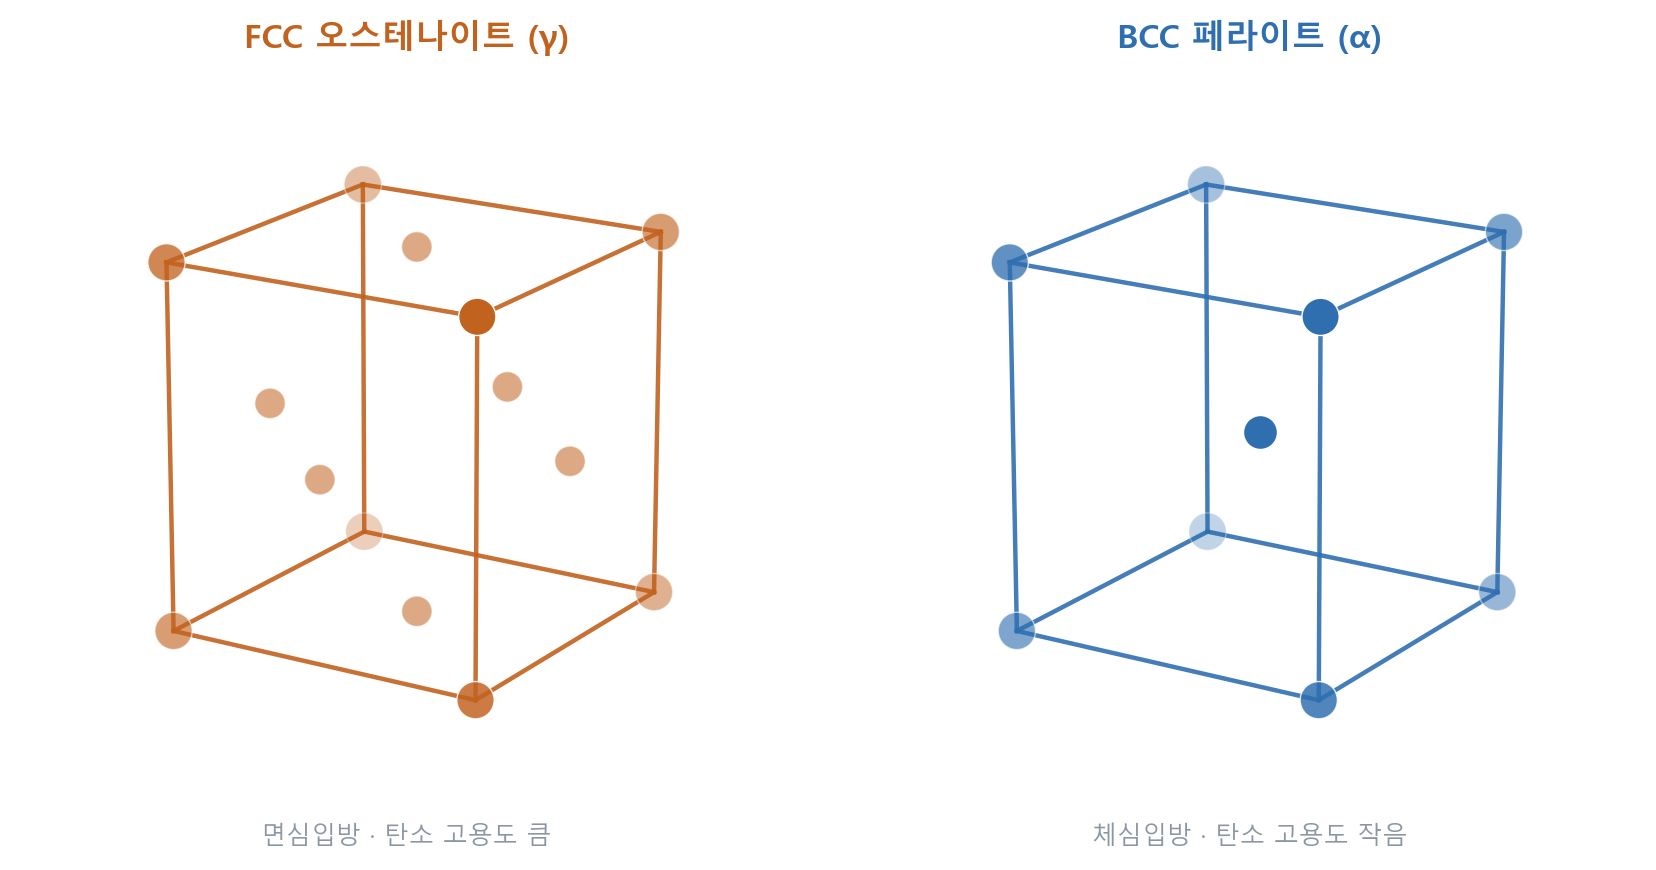
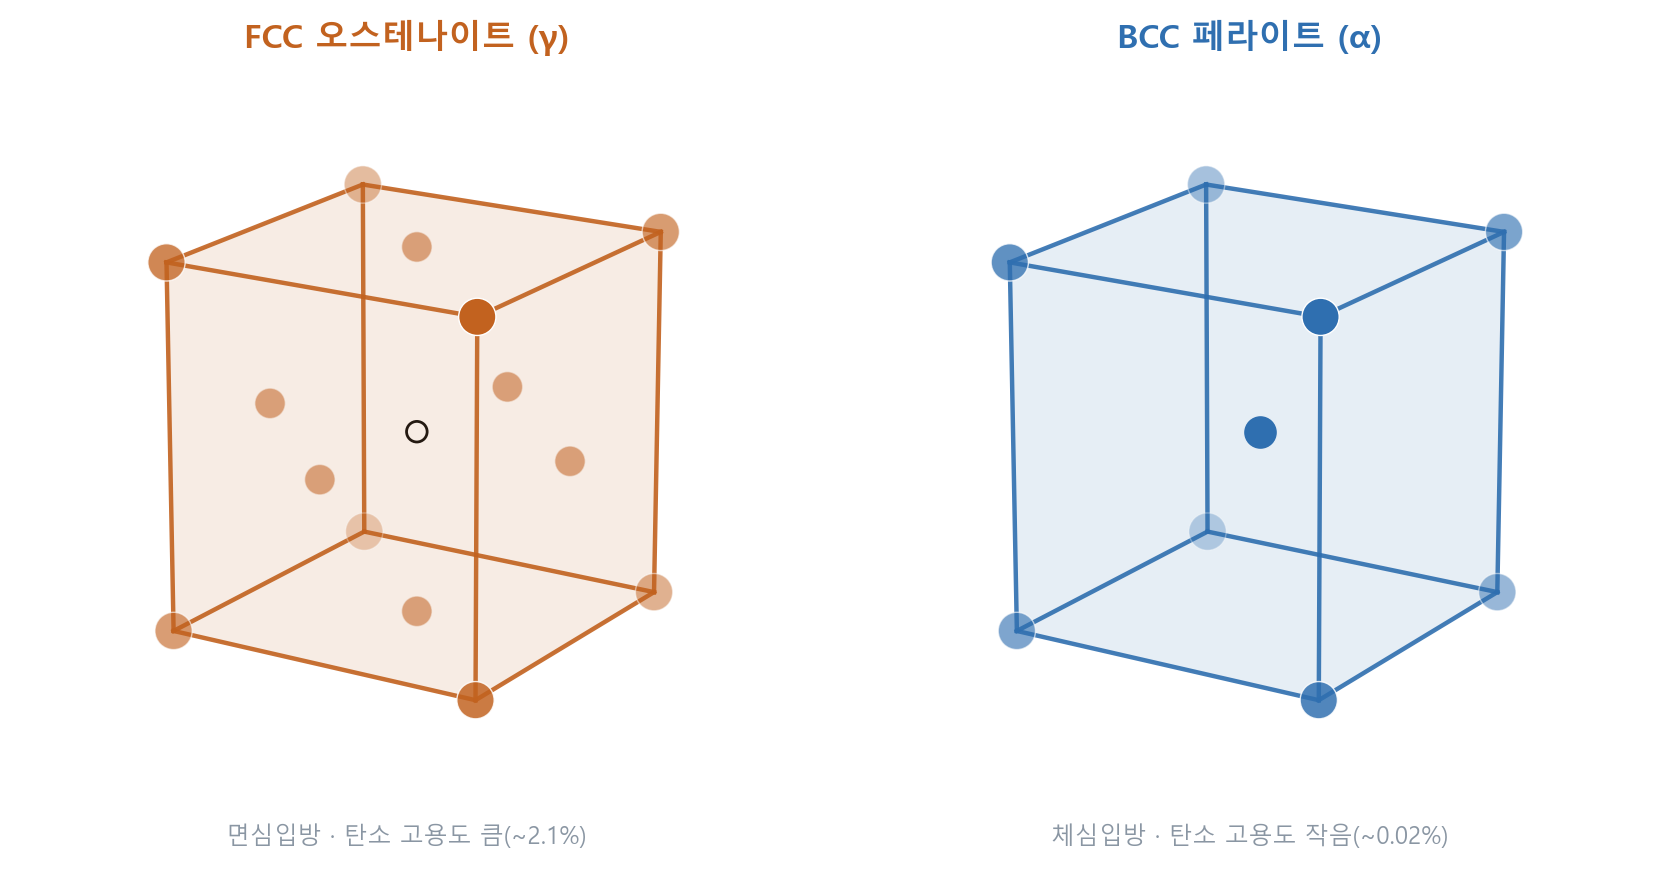
feat(R227/E14/H4c): 도표 고도화 — Fe-C 완전 상태도 + 3D 격자 입체감·침입형 자리
사용자 피드백: 도식이 너무 단순 → 더 고차원적으로. 웹 사실검증 허용(직접인용 아닌 이해용).

- 철-Fe₃C 상태도: 간이 3선 스케치 → 완전판. 전 상영역 음영(L/δ/γ/α/γ+L/L+Fe₃C/
  γ+Fe₃C/α+Fe₃C) + 전 경계선(액상선·고상선·포정·공정·A3·Acm·공석) + 불변점 3
  (포정 J 0.16%C·1495°C · 공정 C 4.30%C·1147°C · 공석 S 0.76%C·727°C) + 조성구간
  브래킷(아공석/과공석/주철). 표준 임계점 웹 재확인.
- 3D 단위격자(마르텐사이트·FCC/BCC): 반투명 6면(Poly3DCollection)으로 입체감 +
  FCC 8면체 공극(○, 탄소 침입형 자리) 표시 → 격자 왜곡·고용도 차이 시각화.

검증: 시각검수(겹침·tofu 0) · 상태도 임계점 라벨 정합.

diff --git a/scripts/gen-glossary-figures.py b/scripts/gen-glossary-figures.py
@@ -65,30 +65,46 @@ def _cube_edges(ax, ox, oy, oz, ax_, ay_, az_, color):
         ax.plot(*zip(pts[a], pts[b]), color=color, lw=1.6, alpha=0.9)
 
 
+def _cube_faces(ax, c, color):
+    """단위셀 6면을 반투명으로 채워 입체감 (c=z 높이). BCT 는 c>1."""
+    from mpl_toolkits.mplot3d.art3d import Poly3DCollection
+    v = [(0, 0, 0), (1, 0, 0), (1, 1, 0), (0, 1, 0),
+         (0, 0, c), (1, 0, c), (1, 1, c), (0, 1, c)]
+    faces = [[0, 1, 2, 3], [4, 5, 6, 7], [0, 1, 5, 4],
+             [2, 3, 7, 6], [1, 2, 6, 5], [0, 3, 7, 4]]
+    pc = Poly3DCollection([[v[i] for i in f] for f in faces],
+                          facecolor=color, alpha=0.06, edgecolor="none")
+    ax.add_collection3d(pc)
+
+
 def fig_martensite_lattice():
     """FCC 오스테나이트 → BCT 마르텐사이트 (3D 단위격자)."""
     fig = plt.figure(figsize=(8.4, 4.2))
 
     # FCC
     ax1 = fig.add_subplot(1, 2, 1, projection="3d")
+    _cube_faces(ax1, 1, C_G)
     _cube_edges(ax1, 0, 0, 0, 1, 1, 1, C_G)
     corners = [(i, j, k) for i in (0, 1) for j in (0, 1) for k in (0, 1)]
     faces = [(0.5, 0.5, 0), (0.5, 0.5, 1), (0.5, 0, 0.5), (0.5, 1, 0.5), (0, 0.5, 0.5), (1, 0.5, 0.5)]
     ax1.scatter(*zip(*corners), s=190, c=C_G, depthshade=True, edgecolors="white", linewidths=0.5)
     ax1.scatter(*zip(*faces), s=130, c=C_G, alpha=0.55, depthshade=True, edgecolors="white", linewidths=0.5)
+    # 8면체 공극(탄소가 들어갈 침입형 자리) — 큰 빈틈
+    ax1.scatter([0.5], [0.5], [0.5], s=60, facecolors="none", edgecolors="#111", linewidths=1.1, depthshade=False)
     ax1.set_title("FCC 오스테나이트 (γ)", fontsize=12, color=C_G, fontweight="bold", pad=2)
-    ax1.text2D(0.5, -0.02, "면심입방 · 탄소 고용", transform=ax1.transAxes, ha="center", fontsize=9, color=C_MUTE)
+    ax1.text2D(0.5, -0.02, "면심입방 · 8면체 공극 큼(탄소 고용↑)", transform=ax1.transAxes, ha="center", fontsize=8.6, color=C_MUTE)
 
     # BCT (c > a)
     ax2 = fig.add_subplot(1, 2, 2, projection="3d")
     c = 1.45
+    _cube_faces(ax2, c, C_M)
     _cube_edges(ax2, 0, 0, 0, 1, 1, c, C_M)
     corners2 = [(i, j, k) for i in (0, 1) for j in (0, 1) for k in (0, c)]
     ax2.scatter(*zip(*corners2), s=190, c=C_M, depthshade=True, edgecolors="white", linewidths=0.5)
     ax2.scatter([0.5], [0.5], [c / 2], s=150, c=C_M, depthshade=True, edgecolors="white", linewidths=0.5)  # body center
-    ax2.scatter([0.5], [0.5], [c * 0.83], s=70, c="#111", marker="D", depthshade=False)  # 침입형 탄소
+    ax2.scatter([0.5], [0.5], [c * 0.83], s=80, c="#111", marker="D", depthshade=False)  # 침입형 탄소
     ax2.set_title("BCT 마르텐사이트", fontsize=12, color=C_M, fontweight="bold", pad=2)
-    ax2.text2D(0.5, -0.02, "체심정방(c>a) · 탄소 과포화(◆)", transform=ax2.transAxes, ha="center", fontsize=9, color=C_MUTE)
+    ax2.text2D(0.5, -0.02, "체심정방(c>a) · 탄소 과포화(◆)", transform=ax2.transAxes, ha="center", fontsize=8.6, color=C_MUTE)
 
     for ax, zmax in ((ax1, 1), (ax2, c)):
         ax.set_box_aspect((1, 1, zmax))
@@ -106,20 +122,23 @@ def fig_fcc_bcc():
     """FCC(오스테나이트) vs BCC(페라이트) 3D 단위격자 — austenite/ferrite 공용."""
     fig = plt.figure(figsize=(8.4, 4.2))
     ax1 = fig.add_subplot(1, 2, 1, projection="3d")
+    _cube_faces(ax1, 1, C_G)
     _cube_edges(ax1, 0, 0, 0, 1, 1, 1, C_G)
     corners = [(i, j, k) for i in (0, 1) for j in (0, 1) for k in (0, 1)]
     faces = [(0.5, 0.5, 0), (0.5, 0.5, 1), (0.5, 0, 0.5), (0.5, 1, 0.5), (0, 0.5, 0.5), (1, 0.5, 0.5)]
-    ax1.scatter(*zip(*corners), s=180, c=C_G, edgecolors="white", linewidths=0.5)
-    ax1.scatter(*zip(*faces), s=120, c=C_G, alpha=0.55, edgecolors="white", linewidths=0.5)
+    ax1.scatter(*zip(*corners), s=180, c=C_G, depthshade=True, edgecolors="white", linewidths=0.5)
+    ax1.scatter(*zip(*faces), s=120, c=C_G, alpha=0.55, depthshade=True, edgecolors="white", linewidths=0.5)
+    ax1.scatter([0.5], [0.5], [0.5], s=55, facecolors="none", edgecolors="#111", linewidths=1.0, depthshade=False)
     ax1.set_title("FCC 오스테나이트 (γ)", fontsize=12, color=C_G, fontweight="bold", pad=2)
-    ax1.text2D(0.5, -0.02, "면심입방 · 탄소 고용도 큼", transform=ax1.transAxes, ha="center", fontsize=9, color=C_MUTE)
+    ax1.text2D(0.5, -0.02, "면심입방 · 탄소 고용도 큼(~2.1%)", transform=ax1.transAxes, ha="center", fontsize=8.6, color=C_MUTE)
 
     ax2 = fig.add_subplot(1, 2, 2, projection="3d")
+    _cube_faces(ax2, 1, C_A)
     _cube_edges(ax2, 0, 0, 0, 1, 1, 1, C_A)
-    ax2.scatter(*zip(*corners), s=180, c=C_A, edgecolors="white", linewidths=0.5)
-    ax2.scatter([0.5], [0.5], [0.5], s=150, c=C_A, edgecolors="white", linewidths=0.5)  # body center
+    ax2.scatter(*zip(*corners), s=180, c=C_A, depthshade=True, edgecolors="white", linewidths=0.5)
+    ax2.scatter([0.5], [0.5], [0.5], s=150, c=C_A, depthshade=True, edgecolors="white", linewidths=0.5)  # body center
     ax2.set_title("BCC 페라이트 (α)", fontsize=12, color=C_A, fontweight="bold", pad=2)
-    ax2.text2D(0.5, -0.02, "체심입방 · 탄소 고용도 작음", transform=ax2.transAxes, ha="center", fontsize=9, color=C_MUTE)
+    ax2.text2D(0.5, -0.02, "체심입방 · 탄소 고용도 작음(~0.02%)", transform=ax2.transAxes, ha="center", fontsize=8.6, color=C_MUTE)
 
     for ax in (ax1, ax2):
         ax.set_box_aspect((1, 1, 1)); ax.set_axis_off(); ax.view_init(elev=18, azim=-58)
@@ -129,31 +148,76 @@ def fig_fcc_bcc():
 
 
 def fig_iron_carbon():
-    """철-탄소 상태도 (개략) — 라벨 겹침 회피."""
-    fig, ax = plt.subplots(figsize=(6.6, 4.4))
-    # A3 line γ→α (912→727)
-    cc = np.linspace(0, 0.76, 50)
-    a3 = 912 - (912 - 727) * (cc / 0.76) ** 0.75
-    ax.plot(cc, a3, color=C_G, lw=2)
-    # Acm line γ→Fe3C (727→상승)
-    cc2 = np.linspace(0.76, 2.0, 50)
-    acm = 727 + (1147 - 727) * ((cc2 - 0.76) / (2.0 - 0.76)) ** 0.9
-    ax.plot(cc2, acm, color=C_G, lw=2, ls="--")
-    # eutectoid 727 line
-    ax.plot([0, 2.0], [727, 727], color=C_M, lw=1.4, ls=":")
-    ax.plot(0.76, 727, "o", color=C_M, ms=7)
-    # 영역 라벨 (열린 공간에 배치 — 겹침 없음)
-    ax.text(1.15, 1050, "γ 오스테나이트", fontsize=13, color=C_G, fontweight="bold", ha="center")
-    ax.text(1.15, 1000, "(FCC · 고온상)", fontsize=9, color=C_MUTE, ha="center")
-    ax.text(0.28, 620, "α + Fe₃C", fontsize=11, color=C_A, ha="center")
-    ax.text(0.28, 585, "(펄라이트)", fontsize=8.5, color=C_MUTE, ha="center")
-    ax.text(1.45, 640, "γ + Fe₃C", fontsize=10, color=C_MUTE, ha="center")
-    ax.annotate("공석점\n0.76%C · 727°C", xy=(0.76, 727), xytext=(1.15, 800),
-                fontsize=9, color=C_M, ha="left",
-                arrowprops=dict(arrowstyle="->", color=C_M, lw=1))
-    ax.set_xlabel("탄소 함량 (wt % C)", fontsize=11, color=C_AX)
-    ax.set_ylabel("온도 (°C)", fontsize=11, color=C_AX)
-    ax.set_xlim(0, 2.0); ax.set_ylim(500, 1150)
+    """철-Fe₃C 상태도 (완전판) — 전 영역 음영·경계선·불변점(포정·공정·공석)."""
+    fig, ax = plt.subplots(figsize=(9.4, 6.2))
+    # ── 불변점 좌표 (표준값) ────────────────────────────────
+    A = (0.0, 1538); N = (0.0, 1394); Gp = (0.0, 912); P = (0.022, 727)
+    H = (0.09, 1495); J = (0.16, 1495); Bp = (0.53, 1495)          # 포정 1495
+    E = (2.11, 1147); Cc = (4.30, 1147); F = (6.67, 1147); K = (6.67, 727); D = (6.67, 1250)
+    S = (0.76, 727)                                                 # 공석
+    FE3C = 6.67
+
+    # ── 영역 음영 (상별 색) ────────────────────────────────
+    regions = [
+        ([A, Bp, Cc, D, (FE3C, 1600), (0, 1600)],           "#d9dee6", None, None),                 # L
+        ([N, A, H],                                          "#cfe0f2", "δ", (0.045, 1455)),         # δ
+        ([A, Bp, H],                                         "#e2ecf5", None, None),                 # δ+L
+        ([J, Bp, Cc, E],                                     "#ecdfca", "γ + L", (2.1, 1300)),       # γ+L
+        ([Cc, D, F],                                         "#e8dfc9", "L + Fe₃C", (5.7, 1178)),    # L+Fe3C
+        ([Gp, N, J, E, S],                                   "#f6e2c6", None, None),                 # γ 오스테나이트
+        ([Gp, S, P],                                         "#dfe9f4", None, None),                 # α+γ
+        ([(0, 912), P, (0, 727)],                            "#cfe0f2", None, None),                 # α
+        ([S, E, F, K],                                       "#f1e7d0", "γ + Fe₃C", (3.9, 930)),     # γ+Fe3C
+        ([P, K, (FE3C, 500), (0, 500), (0, 727)],           "#efe6d6", None, None),                 # α+Fe3C
+    ]
+    for poly, fc, lab, lpos in regions:
+        ax.add_patch(Polygon(poly, closed=True, facecolor=fc, edgecolor="none", zorder=0))
+        if lab:
+            ax.text(*lpos, lab, ha="center", va="center", fontsize=10, color=C_AX, zorder=5)
+    # γ / α+Fe3C 큰 영역 라벨(강조)
+    ax.text(0.95, 1055, "γ 오스테나이트", ha="center", fontsize=13, color=C_G, fontweight="bold", zorder=5)
+    ax.text(0.95, 1010, "(FCC)", ha="center", fontsize=9, color=C_MUTE, zorder=5)
+    ax.text(3.0, 610, "α 페라이트 + Fe₃C", ha="center", fontsize=11.5, color=C_AX, fontweight="bold", zorder=5)
+    ax.text(3.0, 568, "(펄라이트 기반 조직)", ha="center", fontsize=9, color=C_MUTE, zorder=5)
+
+    # ── 경계선 ────────────────────────────────────────────
+    def line(p, q, **kw): ax.plot([p[0], q[0]], [p[1], q[1]], **kw)
+    lw = dict(color=C_AX, lw=2.0, zorder=3)
+    line(A, Bp, **lw); line(Bp, Cc, **lw); line(Cc, D, **lw)        # 액상선
+    line(A, H, **lw); line(J, E, **lw)                             # 고상선(δ·γ)
+    line(H, Bp, color=C_AX, lw=1.4, zorder=3)                      # 포정선 1495
+    line(E, F, color=C_M, lw=1.8, zorder=3)                        # 공정선 1147
+    line(Cc, E, color=C_M, lw=1.8, zorder=3)
+    line(Gp, S, color=C_G, lw=2.0, zorder=3)                       # A3 (GS)
+    line(S, E, color=C_G, lw=2.0, ls="--", zorder=3)               # Acm (SE)
+    line(P, K, color=C_M, lw=1.8, zorder=3)                        # 공석선 727 (PSK)
+    ax.plot([FE3C, FE3C], [500, 1250], color=C_AX, lw=2.0, zorder=3)  # Fe₃C 축
+
+    # ── 불변점 (포정·공정·공석) ────────────────────────────
+    for (pt, txt, tp) in [
+        (J,  "포정 J\n0.16%C · 1495°C", (0.62, 1540)),
+        (Cc, "공정 C\n4.30%C · 1147°C", (4.55, 1245)),
+        (S,  "공석 S\n0.76%C · 727°C",  (1.30, 815)),
+    ]:
+        ax.plot(*pt, "o", color=C_M, ms=7, zorder=6)
+        ax.annotate(txt, xy=pt, xytext=tp, fontsize=8.6, color=C_M, ha="left", va="center",
+                    zorder=6, arrowprops=dict(arrowstyle="->", color=C_M, lw=0.9))
+    # 페라이트(α) 콜아웃 — 얇아 라벨 불가
+    ax.annotate("α 페라이트 (BCC)", xy=(0.03, 800), xytext=(1.35, 690), fontsize=9, color=C_A,
+                ha="left", va="center", zorder=6, arrowprops=dict(arrowstyle="->", color=C_A, lw=0.9))
+    ax.text(5.4, 1470, "L 액체", ha="center", fontsize=12, color=C_AX, zorder=5)
+
+    # ── 조성 구간 브래킷 (하단) ────────────────────────────
+    for x0, x1, name in [(0.022, 0.76, "아공석강"), (0.76, 2.11, "과공석강"), (2.11, 6.67, "주철")]:
+        ax.annotate("", xy=(x0, 520), xytext=(x1, 520),
+                    arrowprops=dict(arrowstyle="<->", color=C_MUTE, lw=0.9))
+        ax.text((x0 + x1) / 2, 505, name, ha="center", va="top", fontsize=8, color=C_MUTE)
+
+    ax.set_xlabel("탄소 함량 (wt % C)", fontsize=12, color=C_AX)
+    ax.set_ylabel("온도 (°C)", fontsize=12, color=C_AX)
+    ax.set_xlim(-0.05, 7.0); ax.set_ylim(480, 1600)
+    ax.set_xticks([0, 0.76, 2.11, 4.30, 6.67])
+    ax.set_yticks([500, 727, 912, 1147, 1394, 1538])
     ax.spines[["top", "right"]].set_visible(False)
     ax.tick_params(colors=C_AX, labelsize=9)
     save(fig, "iron-carbon")